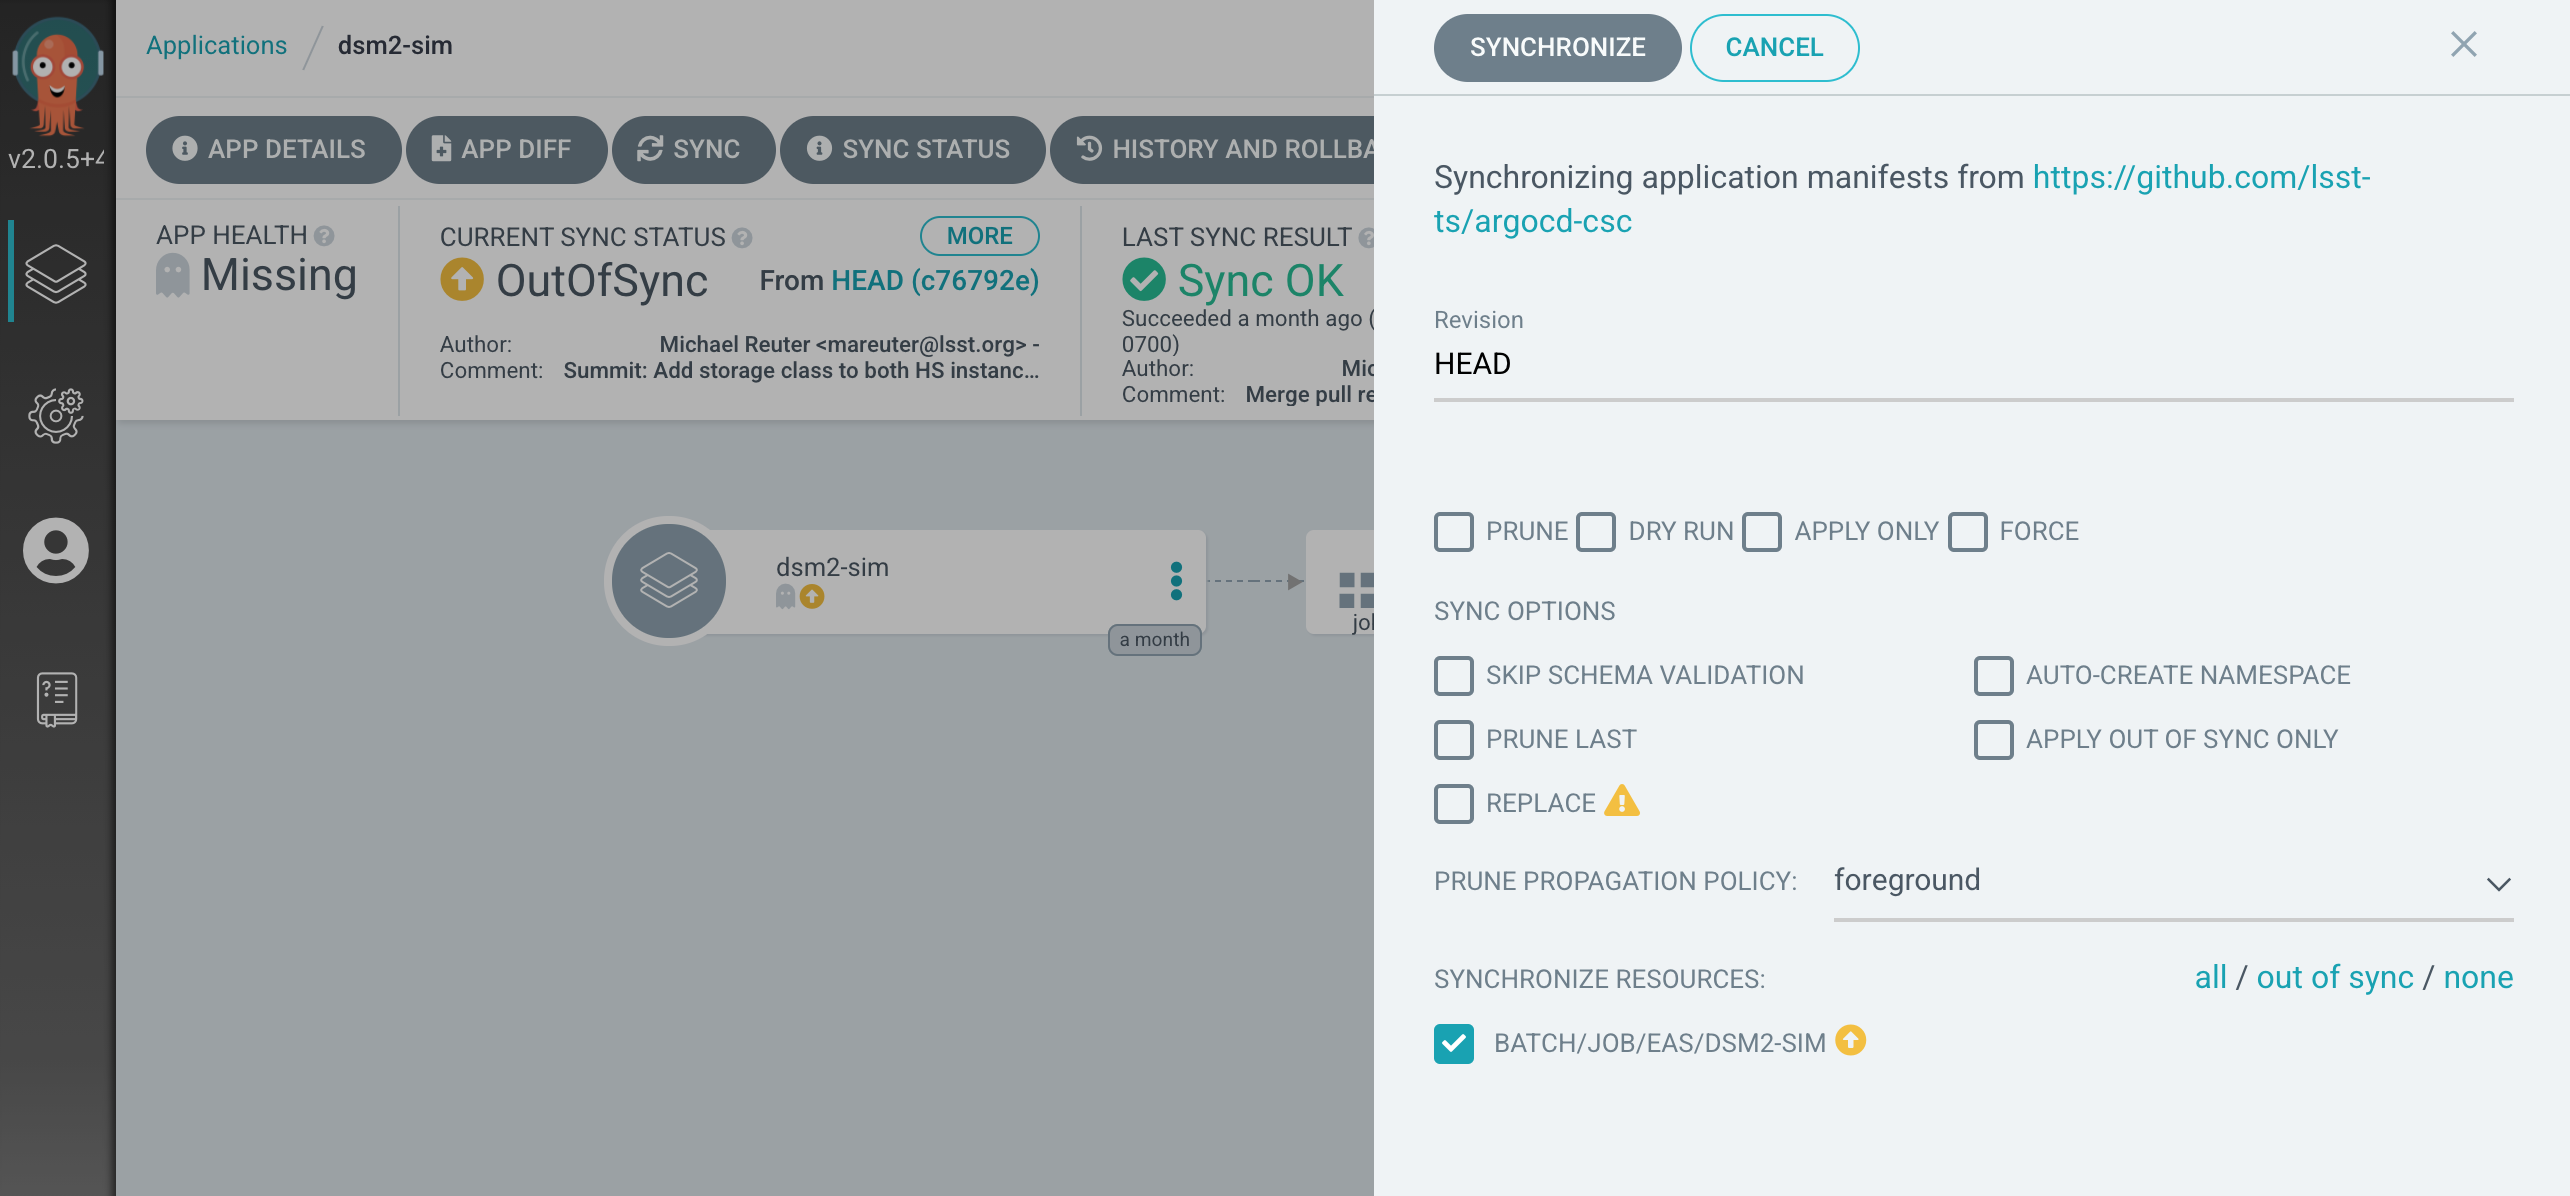
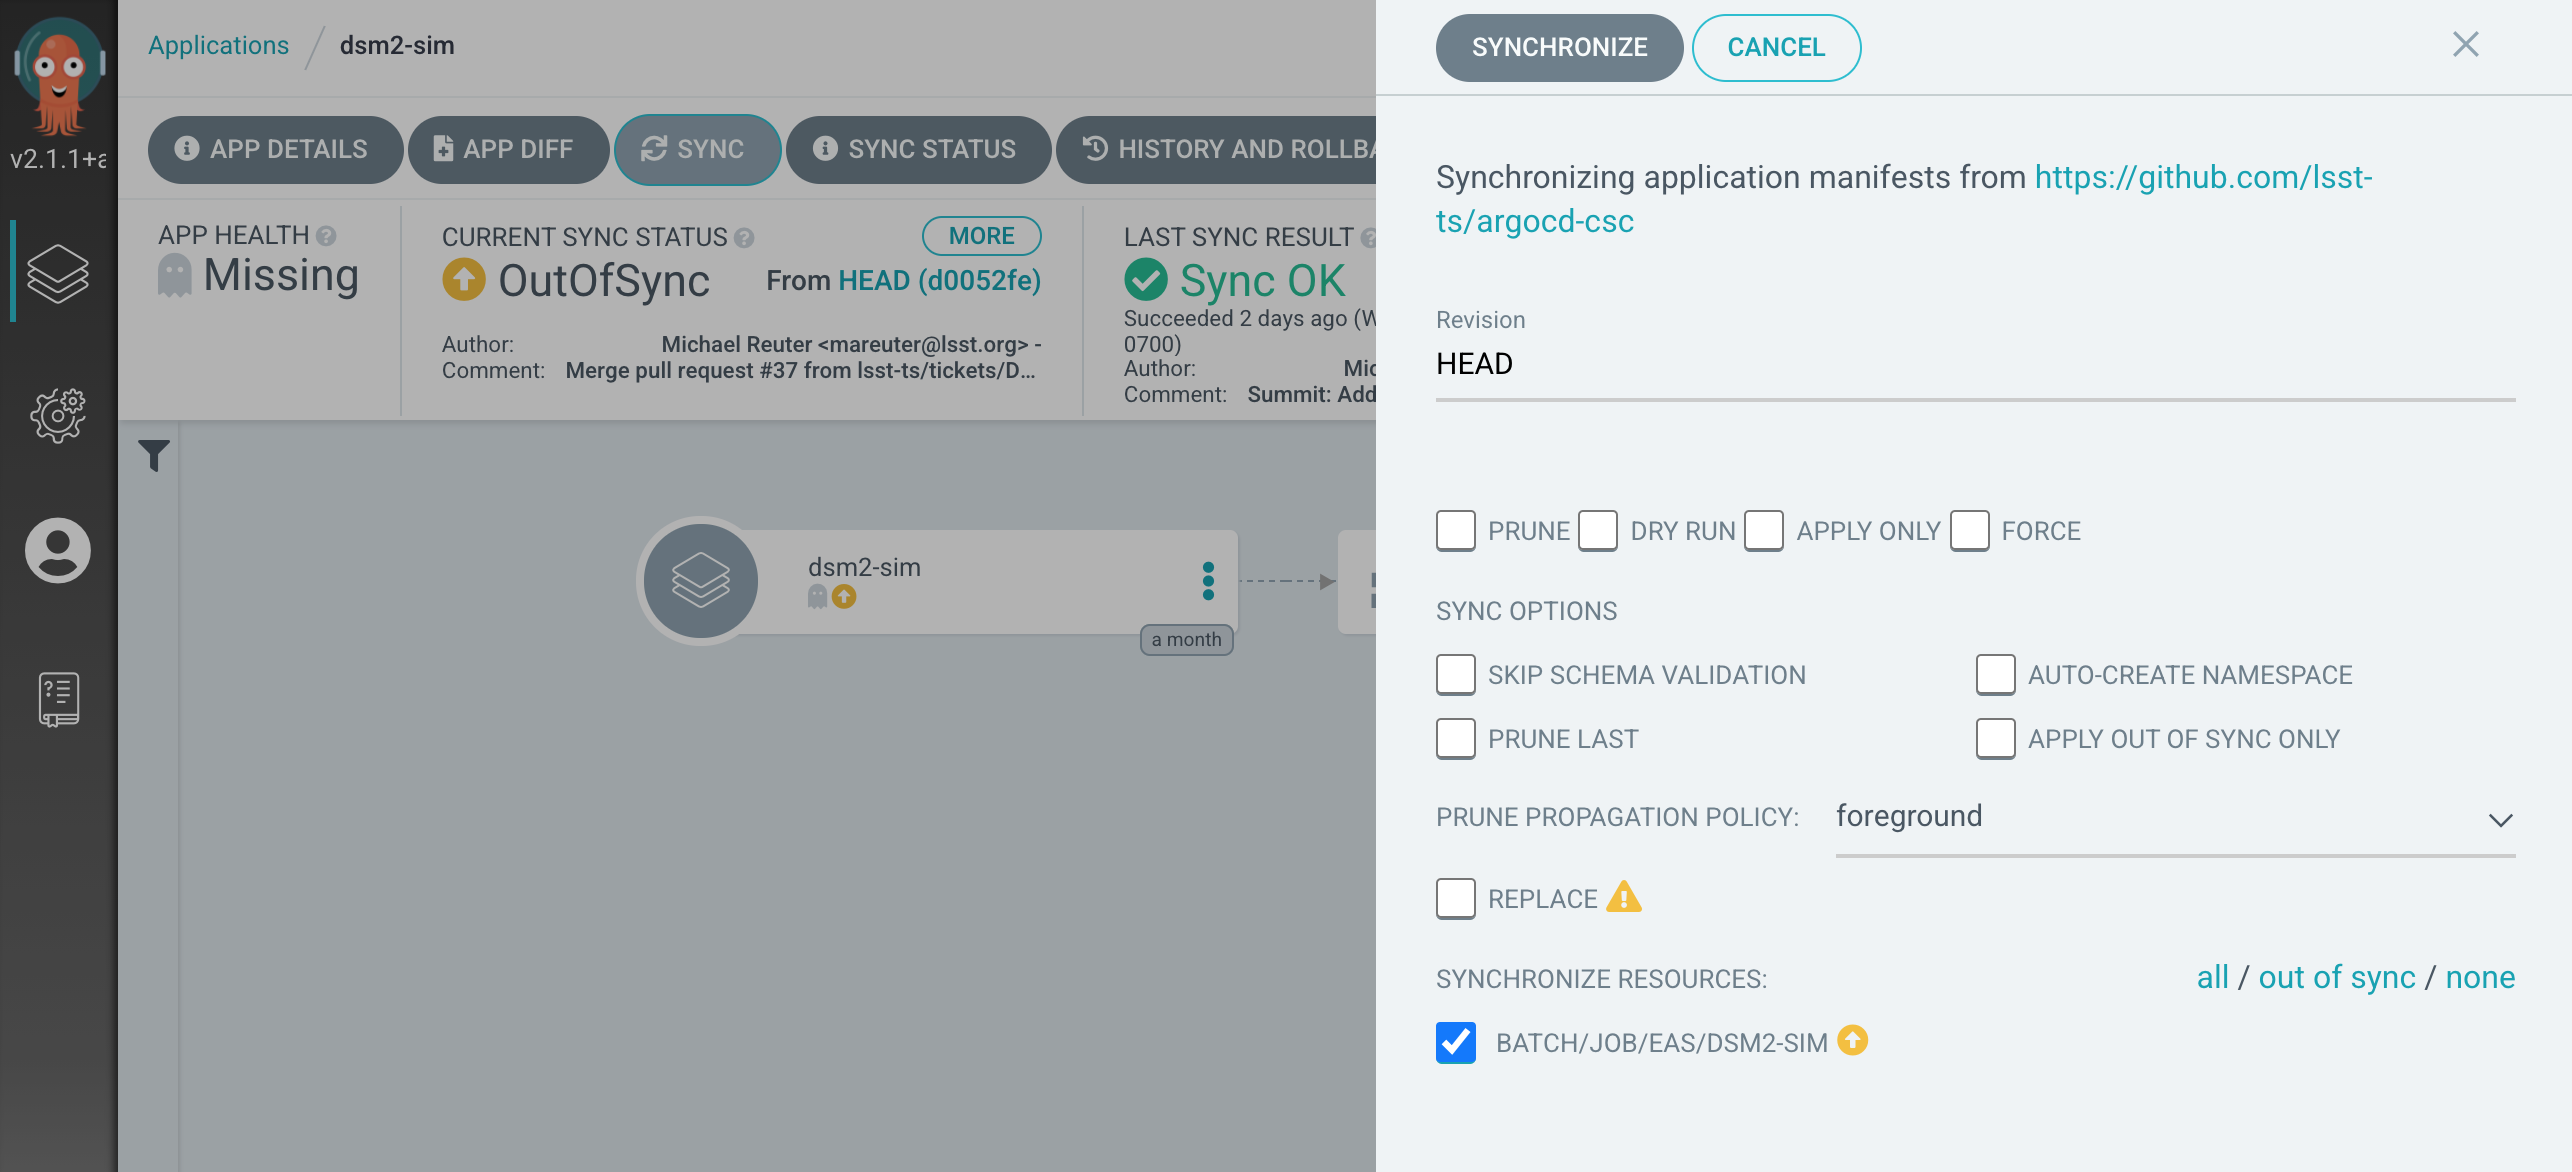
Documentation work.
* Fix typo.
* Update UI screenshots.

diff --git a/docs/index.rst b/docs/index.rst
@@ -10,7 +10,7 @@ More information on the charts used for control system deployment can be found i
 The `Argo CD`_ configuration and this documentation are stored in the `argocd-csc <https://github.com/lsst-ts/argocd-csc>`_ repository in GitHub_.
 
 This deployment mechanism leverages many technologies provided by Data Management's `SQuaRE <https://github.com/lsst-sqre>`_ group.
-This documentation bears heavy resemblance to theirs as many of the concepts and applications of methodologies are similar is not the same.
+This documentation bears heavy resemblance to theirs as many of the concepts and applications of methodologies are similar if not the same.
 
 The following environments are managed by `Argo CD`_ using configuration in this repository.
 The links are links to the `Argo CD`_ dashboards, which require authentication.
